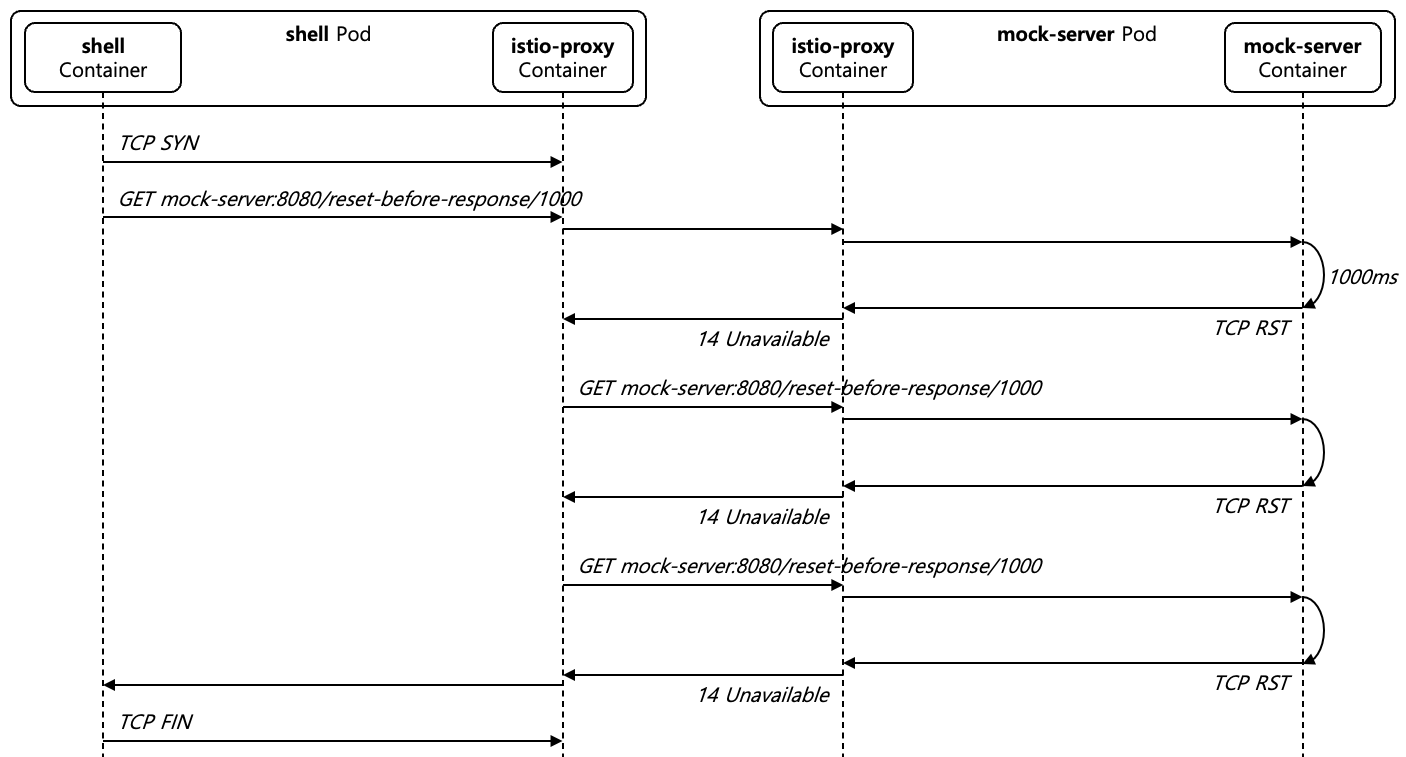
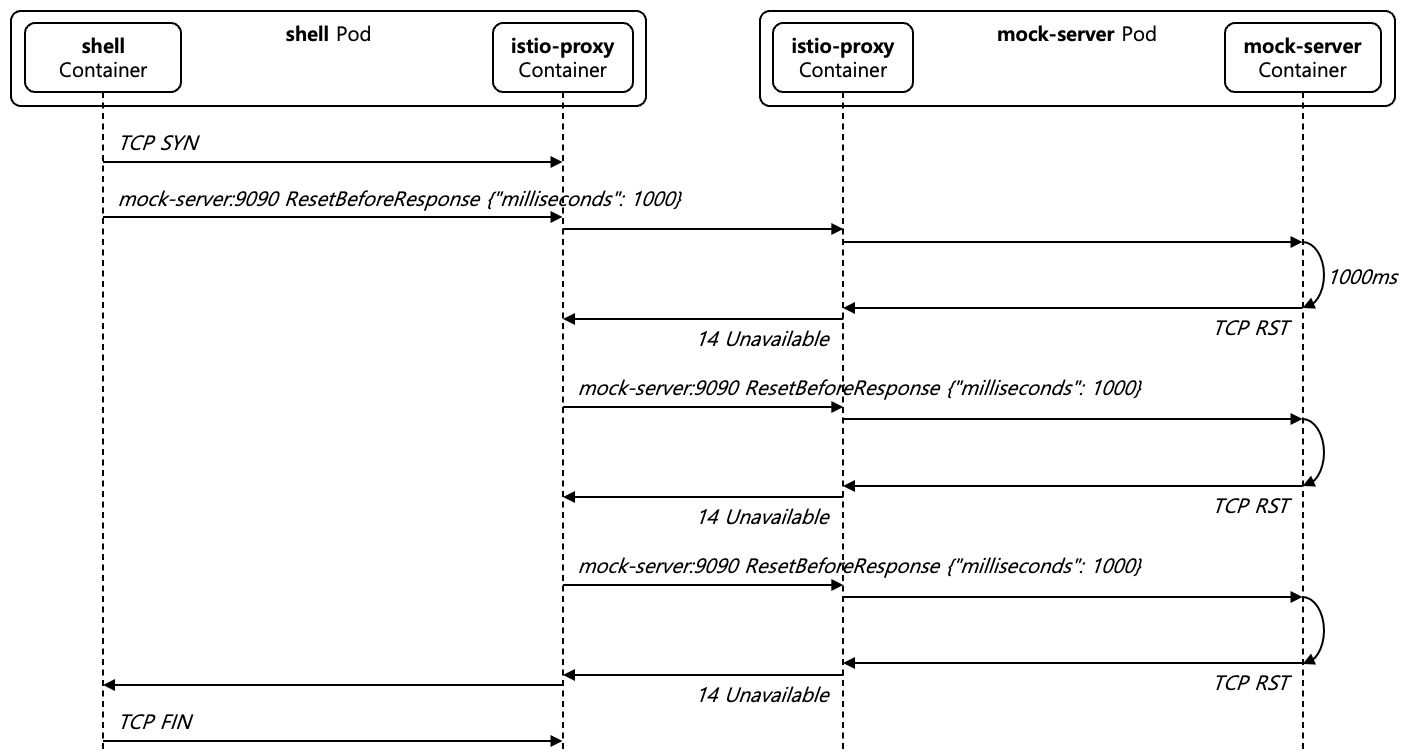
update

diff --git a/content/docs/theory-analysis/istio-sidecar-proxy-access-log/index.md b/content/docs/theory-analysis/istio-sidecar-proxy-access-log/index.md
@@ -88,7 +88,7 @@ metadata:
 spec:
   containers:
   - name: mock-server
-    image: ghcr.io/ssup2/mock-go-server:commit-a6e81068
+    image: ghcr.io/ssup2/mock-go-server:0.1.6
     ports:
     - containerPort: 8080
     - containerPort: 9090
@@ -180,7 +180,10 @@ HTTP/GRPC 요청의 최대 동시 처리 개수를 제한하는 방법은 `http.
 |---|---|
 | /status/{code} | Return specific HTTP status code |
 | /delay/{ms} | Delay response by milliseconds |
-| /disconnect/{ms} | Server closes connection after milliseconds |
+| /reset-before-response/{ms} | Server sends TCP RST before response after delay |
+| /reset-after-response/{ms} | Server sends dummy data, then TCP RST after delay |
+| /close-before-response/{ms} | Server closes connection before response after delay |
+| /close-after-response/{ms} | Server sends dummy data, then closes connection after delay |
 {{< /table >}}
 
 {{< table caption="[Table 2] mock-server gRPC Endpoints" >}}
@@ -188,7 +191,10 @@ HTTP/GRPC 요청의 최대 동시 처리 개수를 제한하는 방법은 `http.
 |---|---|
 | /mock.MockService.Status | Return specific gRPC status code |
 | /mock.MockService.Delay | Delay response by milliseconds |
-| /mock.MockService.Disconnect | Server closes connection after milliseconds |
+| /mock.MockService.ResetBeforeResponse | Server sends TCP RST before response after delay |
+| /mock.MockService.ResetAfterResponse | Server sends dummy data, then TCP RST after delay |
+| /mock.MockService.CloseBeforeResponse | Server closes connection before response after delay |
+| /mock.MockService.CloseAfterResponse | Server sends dummy data, then closes connection after delay |
 {{< /table >}}
 
 [Table 1]과 [Table 2]는 `mock-server` Workload의 HTTP Endpoint, gRPC Function별 동작을 나타내고 있다. `mock-server`에서 제공하는 Endpoint들을 다양한 Case를 재현하기 위해서 사용한다.
@@ -224,8 +230,42 @@ service MockService {
   // Delay response
   rpc Delay(DelayRequest) returns (DelayResponse);
 
-  // Server closes connection after delay
-  rpc Disconnect(DisconnectRequest) returns (Empty);
+  // Server closes connection before response after delay
+  rpc CloseBeforeResponse(CloseRequest) returns (Empty);
+
+  // Server sends dummy data, then closes connection
+  rpc CloseAfterResponse(CloseRequest) returns (stream CloseStreamResponse);
+
+  // Server sends wrong protocol data after delay
+  rpc WrongProtocol(WrongProtocolRequest) returns (Empty);
+
+  // Server sends RST before response after delay
+  rpc ResetBeforeResponse(ResetRequest) returns (Empty);
+
+  // Server sends dummy data, then RST
+  rpc ResetAfterResponse(ResetRequest) returns (stream ResetStreamResponse);
+}
+
+message CloseRequest {
+  int32 milliseconds = 1;
+}
+
+message CloseStreamResponse {
+  int32 sequence = 1;
+  bytes data = 2;
+}
+
+message WrongProtocolRequest {
+  int32 milliseconds = 1;
+}
+
+message ResetRequest {
+  int32 milliseconds = 1;
+}
+
+message ResetStreamResponse {
+  int32 sequence = 1;        // Message sequence number
+  bytes data = 2;            // Payload data
 }
 
 message Empty {}
@@ -248,10 +288,6 @@ message DelayResponse {
   string service = 1;
   int32 delayed_ms = 2;
   string message = 3;
-}
-
-message DisconnectRequest {
-  int32 milliseconds = 1;
 }
 ```
 
@@ -2377,21 +2413,21 @@ TCP RST Flag를 받은 `mock-server` Pod의 `istio-proxy`는 HTTP/2 RST_STREAM F
 
 [Text 34]는 `shell` Pod의 `istio-proxy`의 Access Log를 나타내고 있으며, [Text 35]는 `mock-server` Pod의 `istio-proxy`의 Access Log를 나타내고 있다. 두 Access Log에서 모두 `/mock.MockService/ResetAfterResponse` 함수에 접근하는 내역과 `response_code`가 `200`, `grpc_status`가 `Unknown`로 나타나는 것을 확인할 수 있다. `shell` Pod의 `istio-proxy`의 Access Log에서 `response_flags`가 `UR (UpstreamRemoteReset)`로 나타나는 것을 확인할 수 있으며, `mock-server` Pod의 `istio-proxy`의 Access Log에서 `response_flags`가 `UC (UpstreamConnectionTermination)`로 나타나는 것을 확인할 수 있다.
 
-#### 2.2.4. Upstream Disconnect Case
+#### 1.3.6. Upstream TCP Close before Response Case
 
-```shell {caption="[Shell 21] Upstream Disconnect Case / grpcurl Command", linenos=table}
-$ kubectl exec -it shell -- grpcurl -plaintext -proto mock.proto -d '{"milliseconds": 1000}' mock-server:9090 mock.MockService.Disconnect
+```shell {caption="[Shell 21] Upstream TCP Close before Response Case / grpcurl Command", linenos=table}
+$ kubectl exec -it shell -- grpcurl -plaintext -proto mock.proto -d '{"milliseconds": 1000}' mock-server:9090 mock.MockService/CloseBeforeResponse
 ERROR:
   Code: Unavailable
-  Message: connection closed by server
+  Message: upstream connect error or disconnect/reset before headers. reset reason: connection termination
 command terminated with exit code 78
 ```
 
-```json {caption="[Text 36] Upstream Disconnect Case / shell Pod Access Log", linenos=table}
+```json {caption="[Text 36] Upstream TCP Close before Response Case / shell Pod Access Log", linenos=table}
 {
-  "start_time": "2025-12-25T11:47:17.883Z",
+  "start_time": "2026-01-11T11:55:39.852Z",
   "method": "POST",
-  "path": "/mock.MockService/Disconnect",
+  "path": "/mock.MockService/CloseBeforeResponse",
   "protocol": "HTTP/2",
   "response_code": "200",
   "response_flags": "URX",
@@ -2400,56 +2436,192 @@ command terminated with exit code 78
   "upstream_transport_failure_reason": "-",
   "bytes_received": "8",
   "bytes_sent": "0",
-  "duration": "3136",
-  "upstream_service_time": "3131",
+  "duration": "3086",
+  "upstream_service_time": "3071",
   "x_forwarded_for": "-",
   "user_agent": "grpcurl/v1.9.3 grpc-go/1.61.0",
-  "request_id": "3f9b6820-408e-9e38-a7f6-8eed233a9457",
+  "request_id": "196a9ef4-4383-9d02-9dbb-9752f082fba6",
   "authority": "mock-server:9090",
-  "upstream_host": "10.244.2.8:9090",
+  "upstream_host": "10.244.2.22:9090",
   "upstream_cluster": "outbound|9090||mock-server.default.svc.cluster.local",
-  "upstream_local_address": "10.244.1.5:58590",
-  "downstream_local_address": "10.96.186.69:9090",
-  "downstream_remote_address": "10.244.1.5:46598",
+  "upstream_local_address": "10.244.1.8:45386",
+  "downstream_local_address": "10.96.211.131:9090",
+  "downstream_remote_address": "10.244.1.8:38082",
   "requested_server_name": "-",
   "route_name": "-",
   "grpc_status": "Unavailable",
   "upstream_request_attempt_count": "3",
-  "request_duration": "4",
-  "response_duration": "3135"
+  "request_duration": "1",
+  "response_duration": "3073"
 }
 ```
 
-```json {caption="[Text 37] Upstream Disconnect Case / mock-server Pod Access Log", linenos=table}
+```json {caption="[Text 37] Upstream TCP Close before Response Case / mock-server Pod Access Log", linenos=table}
 {
-  "start_time": "2025-12-25T11:47:20.014Z",
+  "start_time": "2026-01-11T11:55:39.855Z",
   "method": "POST",
-  "path": "/mock.MockService/Disconnect",
+  "path": "/mock.MockService/CloseBeforeResponse",
   "protocol": "HTTP/2",
   "response_code": "200",
-  "response_flags": "-",
-  "response_code_details": "via_upstream",
+  "response_flags": "UC",
+  "response_code_details": "upstream_reset_before_response_started{connection_termination}",
   "connection_termination_details": "-",
   "upstream_transport_failure_reason": "-",
   "bytes_received": "8",
   "bytes_sent": "0",
-  "duration": "1004",
-  "upstream_service_time": "1003",
+  "duration": "1006",
+  "upstream_service_time": "-",
   "x_forwarded_for": "-",
   "user_agent": "grpcurl/v1.9.3 grpc-go/1.61.0",
-  "request_id": "3f9b6820-408e-9e38-a7f6-8eed233a9457",
+  "request_id": "196a9ef4-4383-9d02-9dbb-9752f082fba6",
   "authority": "mock-server:9090",
-  "upstream_host": "10.244.2.8:9090",
+  "upstream_host": "10.244.2.22:9090",
   "upstream_cluster": "inbound|9090||",
-  "upstream_local_address": "127.0.0.6:43691",
-  "downstream_local_address": "10.244.2.8:9090",
-  "downstream_remote_address": "10.244.1.5:58590",
-  "requested_server_name": "outbound_.9090_._.mock-server.default.svc.cluster.local",
+  "upstream_local_address": "127.0.0.6:60797",
+  "downstream_local_address": "10.244.2.22:9090",
+  "downstream_remote_address": "10.244.1.8:45386",
+  "requested_server_name": "-",
   "route_name": "default",
   "grpc_status": "Unavailable",
   "upstream_request_attempt_count": "1",
   "request_duration": "0",
-  "response_duration": "1004"
+  "response_duration": "-"
+}
+{
+  "start_time": "2026-01-11T11:55:40.874Z",
+  "method": "POST",
+  "path": "/mock.MockService/CloseBeforeResponse",
+  "protocol": "HTTP/2",
+  "response_code": "200",
+  "response_flags": "UC",
+  "response_code_details": "upstream_reset_before_response_started{connection_termination}",
+  "connection_termination_details": "-",
+  "upstream_transport_failure_reason": "-",
+  "bytes_received": "8",
+  "bytes_sent": "0",
+  "duration": "1003",
+  "upstream_service_time": "-",
+  "x_forwarded_for": "-",
+  "user_agent": "grpcurl/v1.9.3 grpc-go/1.61.0",
+  "request_id": "196a9ef4-4383-9d02-9dbb-9752f082fba6",
+  "authority": "mock-server:9090",
+  "upstream_host": "10.244.2.22:9090",
+  "upstream_cluster": "inbound|9090||",
+  "upstream_local_address": "127.0.0.6:45085",
+  "downstream_local_address": "10.244.2.22:9090",
+  "downstream_remote_address": "10.244.1.8:45386",
+  "requested_server_name": "-",
+  "route_name": "default",
+  "grpc_status": "Unavailable",
+  "upstream_request_attempt_count": "1",
+  "request_duration": "0",
+  "response_duration": "-"
+}
+{
+  "start_time": "2026-01-11T11:55:41.921Z",
+  "method": "POST",
+  "path": "/mock.MockService/CloseBeforeResponse",
+  "protocol": "HTTP/2",
+  "response_code": "200",
+  "response_flags": "UC",
+  "response_code_details": "upstream_reset_before_response_started{connection_termination}",
+  "connection_termination_details": "-",
+  "upstream_transport_failure_reason": "-",
+  "bytes_received": "8",
+  "bytes_sent": "0",
+  "duration": "1003",
+  "upstream_service_time": "-",
+  "x_forwarded_for": "-",
+  "user_agent": "grpcurl/v1.9.3 grpc-go/1.61.0",
+  "request_id": "196a9ef4-4383-9d02-9dbb-9752f082fba6",
+  "authority": "mock-server:9090",
+  "upstream_host": "10.244.2.22:9090",
+  "upstream_cluster": "inbound|9090||",
+  "upstream_local_address": "127.0.0.6:58531",
+  "downstream_local_address": "10.244.2.22:9090",
+  "downstream_remote_address": "10.244.1.8:45386",
+  "requested_server_name": "-",
+  "route_name": "default",
+  "grpc_status": "Unavailable",
+  "upstream_request_attempt_count": "1",
+  "request_duration": "0",
+  "response_duration": "-"
+}
+```
+
+#### 1.3.7. Upstream TCP Close after Response Case
+
+```shell {caption="[Shell 22] Upstream TCP Close after Response Case / grpcurl Command", linenos=table}
+$ kubectl exec -it shell -- grpcurl -plaintext -proto mock.proto -d '{"milliseconds": 1000}' mock-server:9090 mock.MockService/CloseAfterResponse
+ERROR:
+  Code: Internal
+  Message: stream terminated by RST_STREAM with error code: NO_ERROR
+command terminated with exit code 77
+```
+
+```json {caption="[Text 38] Upstream TCP Close after Response Case / shell Pod Access Log", linenos=table}
+{
+  "start_time": "2026-01-11T12:12:56.184Z",
+  "method": "POST",
+  "path": "/mock.MockService/CloseAfterResponse",
+  "protocol": "HTTP/2",
+  "response_code": "200",
+  "response_flags": "UR",
+  "response_code_details": "upstream_reset_after_response_started{remote_reset}",
+  "connection_termination_details": "-",
+  "upstream_transport_failure_reason": "-",
+  "bytes_received": "8",
+  "bytes_sent": "17",
+  "duration": "1221",
+  "upstream_service_time": "1091",
+  "x_forwarded_for": "-",
+  "user_agent": "grpcurl/v1.9.3 grpc-go/1.61.0",
+  "request_id": "5352fc42-1f26-953b-8934-54be55aac934",
+  "authority": "mock-server:9090",
+  "upstream_host": "10.244.2.22:9090",
+  "upstream_cluster": "outbound|9090||mock-server.default.svc.cluster.local",
+  "upstream_local_address": "10.244.1.8:55444",
+  "downstream_local_address": "10.96.211.131:9090",
+  "downstream_remote_address": "10.244.1.8:45082",
+  "requested_server_name": "-",
+  "route_name": "-",
+  "grpc_status": "Unknown",
+  "upstream_request_attempt_count": "1",
+  "request_duration": "15",
+  "response_duration": "1106"
+}
+```
+
+```json {caption="[Text 39] Upstream TCP Close before Response Case / mock-server Pod Access Log", linenos=table}
+{
+  "start_time": "2026-01-11T12:12:56.215Z",
+  "method": "POST",
+  "path": "/mock.MockService/CloseAfterResponse",
+  "protocol": "HTTP/2",
+  "response_code": "200",
+  "response_flags": "UC",
+  "response_code_details": "upstream_reset_after_response_started{connection_termination}",
+  "connection_termination_details": "-",
+  "upstream_transport_failure_reason": "-",
+  "bytes_received": "8",
+  "bytes_sent": "17",
+  "duration": "1175",
+  "upstream_service_time": "1013",
+  "x_forwarded_for": "-",
+  "user_agent": "grpcurl/v1.9.3 grpc-go/1.61.0",
+  "request_id": "5352fc42-1f26-953b-8934-54be55aac934",
+  "authority": "mock-server:9090",
+  "upstream_host": "10.244.2.22:9090",
+  "upstream_cluster": "inbound|9090||",
+  "upstream_local_address": "127.0.0.6:47473",
+  "downstream_local_address": "10.244.2.22:9090",
+  "downstream_remote_address": "10.244.1.8:55444",
+  "requested_server_name": "-",
+  "route_name": "default",
+  "grpc_status": "Unknown",
+  "upstream_request_attempt_count": "1",
+  "request_duration": "61",
+  "response_duration": "1074"
 }
 ```
 
